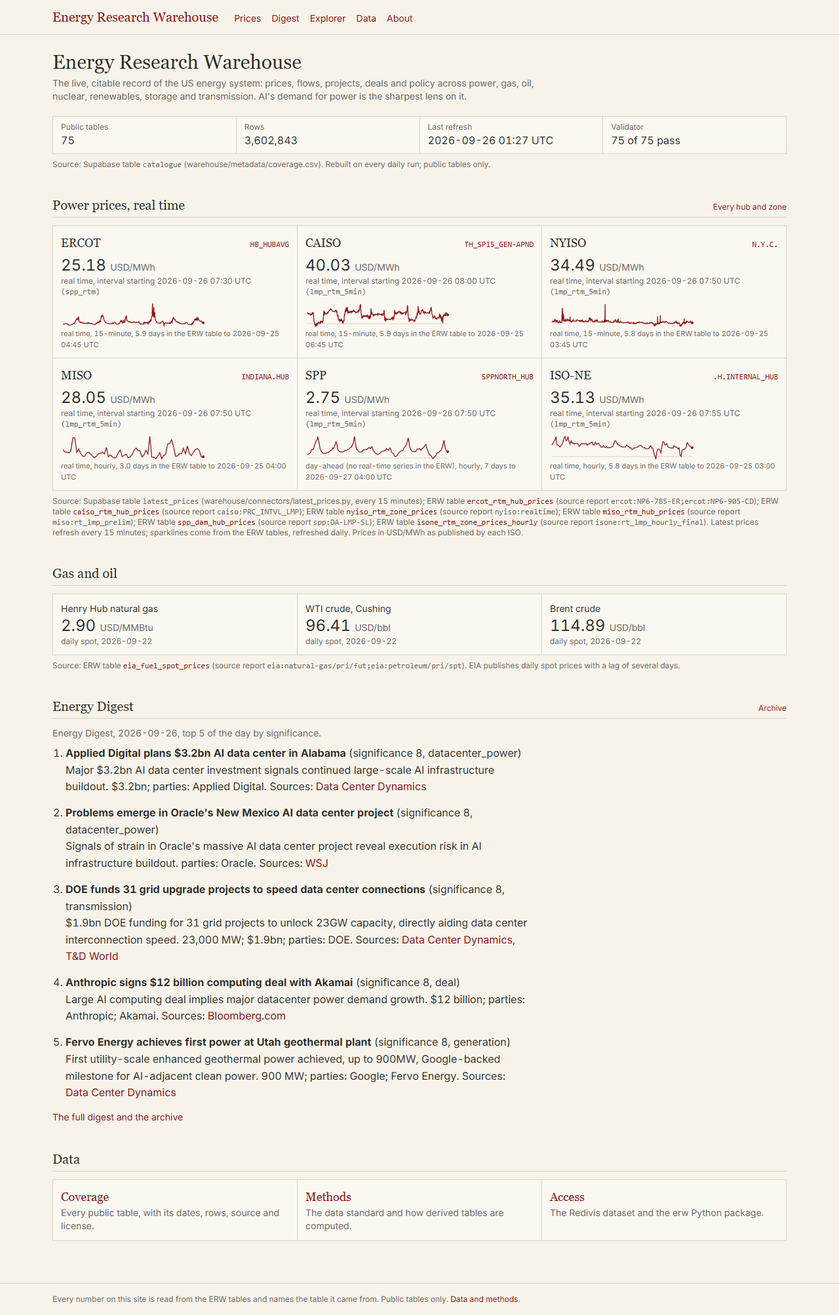
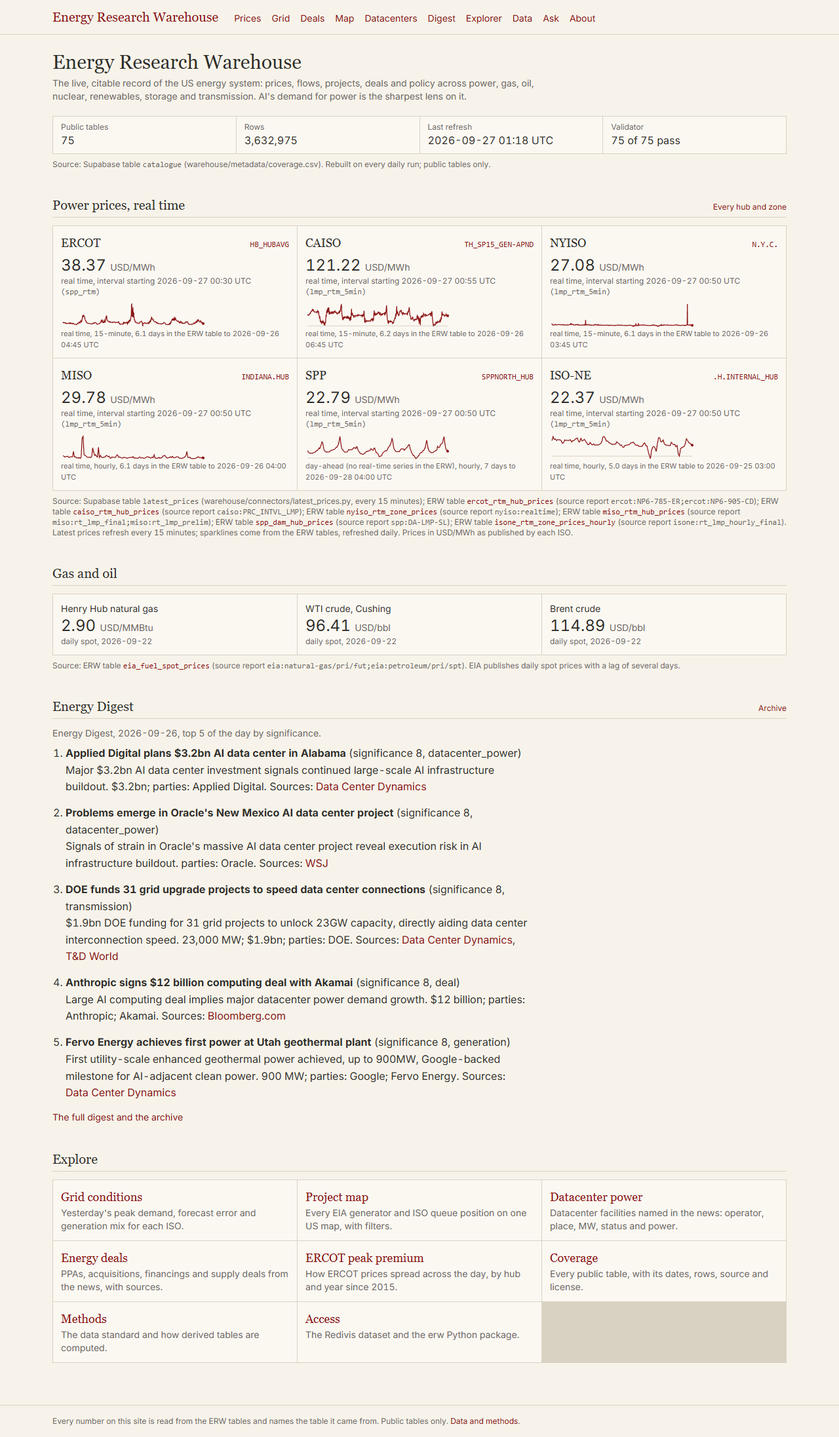
Session 16 Task 5: screenshots, value check for /map and /datacenters, tools 3 and 4, report
- screenshots of /map and /datacenters (no data until the live set is loaded)
  and labeled previews from the local CSVs; home re-shot with the new links
- check-values.mjs reads /map and /datacenters with independent queries;
  catalogue max_last_run now orders nulls last; 229 of 229 values match
- docs/platform-tools.md: tools 3 and 4 (and the session 16 changes to 6, 7)
- package/llms.txt and site/lib/chat/spec.json name the new tables
- STATUS.md regenerated; SESSION_16_REPORT.md

diff --git a/SESSION_16_REPORT.md b/SESSION_16_REPORT.md
@@ -1,0 +1,245 @@
+# Session 16 report
+
+Energy Research Warehouse (ERW), session 16, run 2026-09-27 (UTC). Every task in SESSION_16_PROMPT.md was carried out, with two limits set by this machine's permissions (below). The session pushed four times, each after merging origin/main; GitHub had no daily-run commits to merge, because daily runs 2 and 3 both failed before committing. No key was printed or committed.
+
+**Three things to know first:**
+- **The new tables are not in Supabase yet.** The Supabase load from this machine was refused by Claude Code's permission check (a write to a shared resource), and I did not retry it. So `/map` and `/datacenters` show their "no data" state until a load runs. The layout was checked instead from the local CSVs, on a temporary preview route that was deleted afterwards. Its screenshots are committed as `*-preview-local-csv-*.png`.
+- **The workflow was not triggered.** No GitHub token was available: reading git's stored credential was also refused. Please trigger **daily prices** by hand (Actions, daily prices, Run workflow; the new `queues` input defaults to 1). That run loads `energy_deals`, `datacenter_projects` and, because it pulls the queues, `energy_projects` into Supabase.
+- **The GitHub log was not in the prompt.** The prompt has the placeholder "[paste the last 25 lines of the red step here]". I found the cause another way: the run's failure issue (#2, public) holds the tail of `daily.log`, and the public jobs API gives the step list. The commit step's own output is not in that issue, so the exit 128 cause below is inferred from the code, then reproduced.
+
+## What was built
+
+| Task | Result | Commit |
+|---|---|---|
+| 1 | CI commit step fixed; news_brief fixed; EIA-930 generation per day; extractor rulings with a re-extraction (29 deals became 26) | `95586b8` |
+| 2 | `energy_projects`: 45,488 rows, 43,316 placed | `e7e3748` |
+| 3 | `/map`: canvas points on inline US geometry, filters, click card, legend, table view | `8cdd1d7` |
+| 4 | `datacenter_projects`: 3 facilities; `/datacenters`; datacenters on `/map`; spot check 44 of 48 | `8c9f0bc` |
+| 5 | Screenshots, value check (229 of 229), platform tools 3 and 4, briefing, this report | final commit |
+
+## Task 1: push and stabilize CI
+
+**The push.** origin/main was at `542b4ea` (session 14). Local was 5 commits ahead, with nothing to merge. Session 15 was pushed as it stood (`f5d4053`).
+
+**Exit 128 in the commit step (run 3, `36284122117`).**
+- **Cause:** the step committed, then ran `git pull --rebase` while `warehouse/output/news_index.csv` was still modified. That file is tracked (allowlisted in `.gitignore`) and rewritten every run, but it was missing from the step's `git add` list. Git refuses to rebase with unstaged changes ("cannot pull with rebase: You have unstaged changes"), and exits 128.
+- **Fix, in `daily-prices.yml`:** the step now:
+  1. sets the run's changes aside (`git stash --include-untracked`);
+  2. runs `git pull --rebase origin main`;
+  3. restores the changes, keeping this run's version of any file that conflicts, since it was built from the newer data;
+  4. stages the allowlist, which now includes `news_index.csv` and the datacenter tables;
+  5. commits only if something is staged, then pushes.
+- **Checkout** has full history (`fetch-depth: 0`), so the rebase always has a base.
+- **Tested** in a scratch simulation: a bare remote, a "CI" clone, and a "human" clone that pushed a conflicting `news_stories.csv` and a new `STATUS.md` mid-run. The human's `STATUS.md` was kept, the run's `news_stories.csv` won the conflict, and untracked junk was not committed. With nothing changed, the step exits 0 without committing.
+
+**news_brief failed in CI.**
+- **Cause, from issue #2:** `ERWDataNotFound: No ERW table named 'ercot_peak_premium_annual'`. The digest's "highest real-time price" looped over `erw.filter(market="rtm")`. On the runner that list includes tables coverage carries over but the runner does not have: the derived peak-premium tables and the ERCOT yearly history.
+- **Reproduced** in a fresh clone with four tables: it failed at HEAD and passed after the fix.
+- **Fix:** the loop reads only interval price tables (`<iso>_rtm_(hub|zone)_prices`) and skips any that is absent, with a log line.
+
+**EIA-930 generation per day** (human ruling; data standard decision 24a).
+- The eight generation tables are in `PER_DAY`. Within the days written, a per-fuel series with a missing hour is still dropped for the run, as ruling a says.
+- **Run against the live API:** 2026-09-24 and 2026-09-25 were written for all eight tables. 2026-09-26 had 3 to 6 of 24 hours, so it was not written; each table has a `gap` row in `run_status.csv`.
+- Run 3 had written no generation at all under the old whole-window rule.
+
+**Extractor rulings** (decision 24b).
+- **How:** the model now returns `state_text`, `country_text` and `status_text`. The code keeps each value only if:
+  - its span is in the story;
+  - for a state, the span names the state (name or postal code);
+  - for a country, the span names the country.
+- Status may now be empty, and the prompt maps stated verbs to statuses (raises = closed, secured = signed).
+- **Re-extraction:** `extract.py --reextract` re-ran the 133 stories session 15 checked, starting from nothing. The previous tables are kept in `warehouse/deals/history/`. Cost: USD 0.1939 (9 calls).
+
+**What changed in the re-extraction:**
+
+| | Before | After |
+|---|---|---|
+| Deals | 29 | 26 |
+| State filled | 3 | 0 |
+| Country filled | 18 | 8 |
+| Status filled | 29 | 23 |
+| Status counts | announced 16, signed 9, closed 3, cancelled 1 | signed 10, closed 6, announced 6, empty 3, cancelled 1 |
+| Dollars filled | 13 | 12 |
+
+- **Gone (4):** Palisades and the BWRX-300 MOU, the two non-deals the session 15 spot check flagged. Also a Madouela "other" (confidence 0.3) and an EIG geothermal fund (0.3).
+- **New (1):** Eni, Sapukala block.
+- **The spot check's inference errors are gone:**
+  - ProPetro to Targa lost "TX" and "US" (Permian Basin), and its status is now signed;
+  - Inpex's Ichthys stake lost "Australia";
+  - BP and Devon's Eagle Ford lost "TX";
+  - Nscale is now closed ("raises").
+- **One loss is model variance, not the ruling:** the frontier AI lab equipment deal lost USD 614,000,000 and one of its two stories, because the model did not return them this time.
+- **19 of the 25 deals kept differ in some field; 6 are unchanged.** Besides the ones above:
+  - country removed: WhiteHawk, Vietnam refinery, Hoegh Evi, Shell Gulf assets, Amazon backup generators, Polskie Elektrownie Jadrowe;
+  - status now empty: Genel and Capricorn, Polskie Elektrownie Jadrowe;
+  - Rune is now closed; Amazon is now signed and an offtake;
+  - Anthropic cloud services is now an offtake; the offshore gas project went from project_finance to other;
+  - wording only (asset, technology, capitalization): Golar LNG, Exxon Middle Kura, Mercuria, the CO2 for EOR deal.
+
+**Also:** `load.py --only REGEX` loads chosen live-set tables and leaves the others, and the catalogue's other rows, as Supabase has them. It exists for a machine whose tables are older than CI's. It is untested against Supabase, because the load was refused.
+
+## Task 2: project map data (tool 3)
+
+**`warehouse/derived/energy_projects.py`** is a derived table (decision 23); method in `docs/methods/energy_projects.md`. The standard entities columns come first, then:
+
+| Column | What it holds |
+|---|---|
+| `project_id` | the input row's `entity_id` |
+| `kind` | operating, planned or queue |
+| `technology_group` | EIA's group, or the queue text grouped by `QUEUE_TECH` |
+| `mw` | the source's MW |
+| `state`, `county` | as the source states them |
+| `geo_precision`, `geo_note` | how the row was placed, and why not |
+| `operator_role` | operator (EIA) or developer (queue) |
+| `date`, `date_kind` | operating year, planned operation date or queue date |
+| `technology`, `source_status`, `source_table` | the source's own text, status label and table |
+
+**Rows and placement:**
+
+| Kind | Rows | Placed at | Not placed |
+|---|---|---|---|
+| operating | 28,605 | EIA's coordinates (point) | 0 |
+| planned | 2,316 | EIA's coordinates (point) | 0 |
+| queue | 14,567 | county internal point: 13,395 | 1,172 |
+
+**Why 1,172 queue positions are not placed:** 286 name no state, 214 no county, and the rest name something the gazetteer does not hold: a city, a misspelling or a joined list. There is no fuzzy matching.
+
+**The gazetteer:**
+- **Files:** the U.S. Census Bureau's 2025 county file, downloaded each run into `warehouse/raw/census_gazetteer/<run_id>/` with a manifest, and registered in `sources.csv` as `census:gazetteer_counties` (public).
+- **The point:** the prompt asked for the county centroid. The gazetteer publishes the county's internal point (`INTPTLAT`, `INTPTLONG`), which is always inside the county. The method doc says so.
+- **Connecticut:** the 2025 file replaced the state's counties with planning regions, while ISO-NE still names counties. For names the 2025 file lacks, the 2020 file is used, and `geo_note` names the file.
+- **Matching:** the whole text is tried first, so a hyphenated name like Miami-Dade matches; then each county of a list.
+
+**Checks:** it validates. On the CI runner the script skips with a warning (session 10 ruling 3) unless the queue tables are there, which is on Mondays or on a manual run with `queues=1`.
+
+**Live set.** `energy_projects` repeats rows already in Supabase, which was at 257.6 MB against the 300 MB limit. So a new `select` rule in `live_set.yaml` loads it:
+- without withdrawn queue positions;
+- with only the map's extra columns;
+- which comes to 36,741 rows, estimated at 20 to 30 MB.
+
+The CSV and Redivis keep everything. **Watch the size on the first load:** if it passes `max_mb`, `supabase_load` fails that day and names the size.
+
+**Chat:** sectors `power` for `energy_projects` and a new `datacenters` sector for the tracker, in coverage, the package and the chat tools. The briefing (`package/llms.txt`) and `site/lib/chat/spec.json` now name `energy_projects`, `datacenter_projects` and `energy_deals`.
+
+## Task 3: /map
+
+**Libraries:** `d3-geo`, `topojson-client` and `us-atlas`. The map is inline geometry: no tiles and no key.
+
+**Drawing:**
+- **Projection:** the server projects every point with Albers USA, the same projection us-atlas's albers file is drawn with, and hands the client compact arrays.
+- **Points** are drawn on a canvas, since there are 36,000 of them.
+- **Size and order:** area grows with MW, and the largest points are drawn first.
+- **Color** is the technology group, using the site's eight fuel colors from the same token file. Session 15 validated them on this surface. Hybrid, petroleum, biomass, geothermal, transmission and not-stated share "other", as the dataviz rule forbids a ninth hue.
+- **Shape:** exact points are dots, county points are rings, and datacenters are diamonds.
+
+**Around the map:**
+- **Filters, in one row:** kind, technology, state, status and a MW range, plus a live count of what is shown.
+- **Hover:** a tooltip.
+- **Click:** a card read from Supabase through `/api/entity`. It reads only `energy_projects` and `datacenter_projects`, with the anon key on the server.
+- **Also:** a legend with shape and size keys, and a table view of counts and MW by technology and kind.
+- **Numbers:** every count and MW carries a `data-check` key.
+- **Links:** nav and home.
+
+**A screenshot bug, fixed.** The first capture showed the points squashed into the top quarter of the map. The canvas itself was right: its drawn pixels spanned rows 12 to 505 of 509. The cause was `captureBeyondViewport`, which re-lays the page out mid-capture. `scripts/screenshots.mjs` now sizes the viewport to the page before capturing.
+
+## Task 4: datacenter power tracker v0 (tool 4)
+
+**`warehouse/datacenters/extract.py`** follows the deal extractor's pattern. It loads the deal extractor by path for its checks, since both files are named `extract.py`, and the county gazetteer code from `energy_projects.py`.
+
+**What each field needs to be kept:**
+
+| Field | Kept only if |
+|---|---|
+| MW | its span parses to the same value |
+| State, status | their spans are in the story, as in the deals |
+| County, city | the location span is in the story and contains the name |
+| Planned year | its span is in the story and contains the year |
+| Operator, developer, site name, power source, utility | the name appears in the story |
+
+**The rest of the design:**
+- **Deduplication** is by site, against a reference list of the facilities already extracted.
+- **Placement:** at the stated county's internal point (`county`), else the stated city's (Census 2025 places file, unique names only: `place`), else not placed.
+- **Status:** the standard `status` maps announced and permitted to planned, and cancelled to withdrawn. The extractor's own word is kept in `project_status`.
+- **`ai_power`** is true on every row: the table is the AI-power subset.
+
+**Tables:**
+- `datacenter_projects`: entities, public.
+- `datacenter_projects_evidence`: events, internal.
+- Both are in `run_daily.sh`, the git allowlist and the workflow's commit list. The public table is in the live set.
+
+**The backfill.** News was brought current first: 33 stories, scored for USD 0.1177, and 1 new deal (USD 0.0133). The extraction then covered 28 datacenter_power stories in 25 clusters, over 3 calls, for USD 0.0299, and found 3 facilities:
+
+| Facility | What the stories state |
+|---|---|
+| Oracle | New Mexico; 4 stories |
+| Arevia Power | Ada County; permitted; gas |
+| Applied Digital, Delta Forge 2 | Alabama; 2028 |
+
+None of the three is placed, because none states both a state and a county or city. The data is thin because the ERW has scored news only since 2026-09-23.
+
+**The site:**
+- **`/datacenters`** has a summary strip (facilities, MW stated, MW by state and top operators by MW, each saying "no data" and why when no facility states MW), filters (state, status, operator, minimum MW), and per-row story links.
+- **`/map`** draws datacenters as its fourth kind.
+
+**Spot check** (`warehouse/datacenters/eval/spot_check_s16.csv`): 10 extractions, judged field by field against the titles and summaries. The extractor was not changed afterwards.
+- **The 10:** the 3 facilities, each judged on 14 fields, and 7 clusters where the extractor found no facility, judged on that decision alone.
+- **Result:** 44 of 48 judgments correct (0.92).
+
+| Field | Correct | Where wrong |
+|---|---|---|
+| is_facility | 10/10 | |
+| status | 1/3 | Arevia "permitted" (an application was filed); Delta Forge 2 empty ("reveals ... will be built" was stated, but the model gave no span, so the check emptied it) |
+| state | 2/3 | Arevia: "Ada County, Idaho" is stated, the model returned no state |
+| operator | 2/3 | Arevia Power is the developer; no operator is named |
+| every other field | all correct | |
+
+## Task 5
+
+**Screenshots** in `site/screenshots/`:
+
+| File | What it shows |
+|---|---|
+| `map-desktop.png`, `map-mobile.png` | the live pages in their no-data state |
+| `datacenters-desktop.png`, `datacenters-mobile.png` | the live pages in their no-data state |
+| `map-preview-local-csv-*` | the layout, with real rows read from the local CSV |
+| `datacenters-preview-local-csv-*` | the layout, with real rows read from the local CSV |
+| `home-*` | re-shot with the new links |
+
+**Value check** (`scripts/check-values.mjs`):
+- **Extended to `/map` and `/datacenters`:** independent queries for the counts by kind, precision and technology, and the MW sums, with MW sums compared as the page rounds them.
+- **Also fixed:** Postgres puts nulls first in a descending order, so the check read a null `last_run`. It now orders with nulls last.
+- **Result: 229 of 229 values match Supabase.** None of them are from `/map` or `/datacenters`, which have no rows to check until the load. After the load, run `npm run check` again.
+
+**Docs:** `docs/platform-tools.md` has tools 3 and 4, with the session 16 changes to 6 and 7; `docs/datastandard.md` has decision 24; `STATUS.md` is regenerated.
+
+## Decisions
+
+1. **Queue tables are not restored from Redivis in CI.** A restored snapshot keeps only a one-line header, so the validator and provenance would suffer. Instead the map table is built on the days the queues are pulled, and a manual run pulls them by default.
+2. **The county internal point stands in for the centroid,** and Connecticut uses the 2020 file (Task 2).
+3. **No fuzzy matching or city lookup for queue positions.** An unplaced position is honest; a guessed county is not.
+4. **The Supabase copy of `energy_projects` is trimmed** by a `select` rule, instead of dropping the generator and queue tables that `/ask` reads.
+5. **`ai_power` is true on every datacenter row,** and the datacenter status keeps its own word in `project_status`, because the entities vocabulary has no "announced" or "permitted".
+6. **`first_story_date` was renamed `first_story_at`,** because the validator requires `*_date` columns to be dates. The 3-row file was renamed in place, rather than re-extracted.
+7. **The committed preview screenshots are labeled as local-CSV previews,** because the live pages cannot show data yet.
+
+## Errors hit
+
+1. **Permission refusals:** reading git's stored credential (for the API trigger) and the Supabase load. Neither was retried.
+2. **Two heredoc patches failed** on quoting; they were rewritten as script files.
+3. **`read_series` refused entities tables;** the map builder reads tables by counting the header lines instead.
+4. **The 2025 gazetteer is pipe-delimited,** not tab-delimited as older years are.
+5. **Squashed canvas in the screenshots** (Task 3).
+6. **The validator blocked `first_story_date`** (decision 6).
+7. **A stale local server held port 3000;** the process was stopped.
+
+## Open questions for the human
+
+1. **Trigger the daily workflow by hand** (queues=1), and check its commit step on GitHub.
+   - Its Supabase load puts `energy_projects`, `datacenter_projects` and the re-extracted `energy_deals` live.
+   - Watch the database size on that load against `max_mb` 300.
+   - Alternatively, run `python warehouse/supabase/load.py --only '^energy_projects$' --only '^datacenter_projects$' --only '^energy_deals$'` yourself.
+2. **Check the site after the load:** run `npm run build && npm start`, then `npm run check`, to verify the numbers on `/map` and `/datacenters`.
+3. **The datacenter extractor's status reading is weak** (1 of 3 correct). Should the status vocabulary have an "applied" step, and should the model be required to give the status span? Today a missing span empties a correct status.
+4. **Standing failures from run 3:**
+   - SPP real-time has now failed three runs in a row (a missing SPP interval file for 2026-09-23), and the workflow's streak step would open an issue for it;
+   - CARB's auction PDF answered HTTP 202.

diff --git a/docs/platform-tools.md b/docs/platform-tools.md
@@ -8,11 +8,11 @@ Status: **yes** = the tables the tool needs exist and refresh daily; **partial**
 |---|---|---|---|
 | 1 | Energy Digest: daily AI-curated news brief across the whole energy industry | events `news_stories` (scored); series price and fuel tables for "Numbers today" | **yes** (data and page): `news_stories` (44 feeds, scored and clustered), `news_index` (public), the daily digest in `docs/digest/`, and the price and fuel tables; the site renders the digest and its archive (`/digest`, top 5 on `/`). Built; the site is not yet deployed. The daily workflow (`.github/workflows/daily-prices.yml`, 14:00 UTC) runs on GitHub in its session 13 form since 2026-09-26, and needs the repository secrets listed in SESSION_13_REPORT.md ("Correction after the push") |
 | 2 | Real-time price board: power hubs, gas, oil, nuclear fuel, carbon, lithium, energy equities | series: `*_dam_*`, `*_rtm_*`, `eia_*` fuel, product, retail and crude tables, `fred_*`, `carb_*`, `rggi_*`, `pjm_rpm_capacity_prices`, `portwatch_chokepoint_transits` | **partial**: the site's home board and `/prices` show every public ISO hub and zone (six ISOs, real time and day-ahead), Henry Hub, WTI and Brent, from Supabase; `latest_prices` refreshes the newest real-time interval every 15 minutes (`.github/workflows/latest-prices.yml`, every 15 minutes on GitHub since 2026-09-26; needs `SUPABASE_URL` and `SUPABASE_SERVICE_KEY` as repository secrets). The tables also hold products, retail fuels and electricity, LNG, capacity, carbon, IMF metals and chokepoint transits (the last four internal). Missing: PJM energy prices, SPP real-time series, live futures (paid), lithium, equities. Not yet deployed |
-| 3 | Energy project map | entities: plants, projects, interconnection queue positions (EIA-860, ISO queues), with lat/lon | **partial** (session 8): `eia860m_operating_generators`, `eia860m_planned_generators`, `eia860m_retired_generators` with lat/lon; `<iso>_interconnection_queue` for ERCOT, CAISO, NYISO, MISO, SPP and ISO-NE (county and POI, no lat/lon from the ISOs). Missing: PJM queue (needs a key), geocoded queue positions |
-| 4 | Datacenter power tracker | entities: datacenters; events: datacenter power deals; series: `eia930_*_demand` | **partial**: hourly demand by ISO; large-load context from the EIA-860M inventories and ISO queues (session 8); no datacenter entities or deal events |
+| 3 | Energy project map | entities: plants, projects, interconnection queue positions (EIA-860, ISO queues), with lat/lon | **partial (session 16)**: `energy_projects` (derived, public, method `docs/methods/energy_projects.md`): 45,488 rows, every EIA-860M operating (28,605) and planned (2,316) generator at EIA's coordinates and every queue position of ERCOT, CAISO, NYISO, MISO, SPP and ISO-NE (14,567), placed at its county's internal point from the Census Bureau's county gazetteer; 1,172 queue positions name no county the gazetteer holds and are not placed. The site's `/map`: points sized by MW and colored by technology group, county points drawn as rings, filters for kind, technology, state, status and MW, a click card, a legend and a table view; datacenters (tool 4) are the fourth kind. The Supabase copy leaves out withdrawn queue positions and keeps the map's columns (`select` in `live_set.yaml`). Not yet in Supabase: this machine could not load it, and CI builds it only on days the queues are pulled (Mondays, or a manual run). Missing: PJM queue (needs a key), exact queue coordinates, retired generators on the map |
+| 4 | Datacenter power tracker | entities: datacenters; events: datacenter power deals; series: `eia930_*_demand` | **partial (v0, session 16)**: `datacenter_projects` (entities, public: the model's checked fields and story links) and `datacenter_projects_evidence` (internal), extracted by `warehouse/datacenters/extract.py` from the scored `datacenter_power` stories, every field kept only as the story states it; deduplicated by site; placed at the stated county or city. In the daily run after the deals. 3 facilities from the first 28 stories; a 10-extraction spot check: 44 of 48 judgments correct (status is the weak field). The site's `/datacenters` (summary strip, filters, story links) and the fourth kind on `/map`; datacenter power deals are in `energy_deals` (tool 6, ai_power). Missing: facilities from filings, utility large-load reports and press releases; history before 2026-09-23; hourly demand is in `eia930_*_demand` but not joined to facilities |
 | 5 | Signature data explorers (live thesis charts, starting with ERCOT peak premium) | series: `ercot_dam_hub_prices`, `ercot_rtm_hub_prices`, `ercot_*_hub_prices_<year>`, `eia930_erco_generation`, `eia930_erco_demand` | **yes** for the first explorer: the ERCOT peak premium, with its data (`ercot_peak_premium_annual`, `_monthly`, from every 15-minute interval since 2015, method in `docs/methods/`) and its page (`/explorer/ercot-peak-premium`: hub and year selectors, box summaries by time-of-day block, yearly and monthly charts). Built, not yet deployed. No second explorer yet |
-| 6 | Energy deal tracker: PPAs, offtakes, M&A, project finance, AI-power deals as a tagged subset | events: deals (parties, mw, price, status); `news_stories` as the discovery feed | **partial (v0, session 15)**: `energy_deals` (public: the model's structured fields and story links) and `energy_deals_evidence` (internal: the evidence sentences), extracted by `warehouse/deals/extract.py` from scored stories, every number checked against the story's own text; in the daily run after scoring; 29 deals from the first four days of news; the site's `/deals` (filters, expandable rows, month summary). A 10-deal spot check: 0.95 of field values correct. Missing: deals from filings and press releases, history before the news began (2026-09-23), a human-marked evaluation (`warehouse/deals/eval/eval_sample.csv`) |
-| 7 | Grid stress and real-time conditions | series: `*_rtm_*`, `eia930_*_demand` (with forecast), `eia930_*_generation`; reserves, outages; entities: generator inventory and retirements | **partial (session 15)**: the site's `/grid`, from the EIA-930 demand, forecast and generation tables in the Supabase live set: yesterday's peak demand and hour, day-ahead forecast error, the generation mix by fuel, 7 days of demand, for the Lower 48 and seven ISOs, with the reason from run_status.csv when a day is missing; real-time prices on `/prices`. Missing: reserves, outages, ancillary prices, interchange |
+| 6 | Energy deal tracker: PPAs, offtakes, M&A, project finance, AI-power deals as a tagged subset | events: deals (parties, mw, price, status); `news_stories` as the discovery feed | **partial (v0, session 15)**: `energy_deals` (public: the model's structured fields and story links) and `energy_deals_evidence` (internal: the evidence sentences), extracted by `warehouse/deals/extract.py` from scored stories, every number checked against the story's own text; in the daily run after scoring; 29 deals from the first four days of news, 26 after the session 16 re-extraction under the ruling that state, country and status are never inferred (27 with the next day's stories); the site's `/deals` (filters, expandable rows, month summary). A 10-deal spot check: 0.95 of field values correct. Missing: deals from filings and press releases, history before the news began (2026-09-23), a human-marked evaluation (`warehouse/deals/eval/eval_sample.csv`) |
+| 7 | Grid stress and real-time conditions | series: `*_rtm_*`, `eia930_*_demand` (with forecast), `eia930_*_generation`; reserves, outages; entities: generator inventory and retirements | **partial (session 15)**: the site's `/grid`, from the EIA-930 demand, forecast and generation tables in the Supabase live set: yesterday's peak demand and hour, day-ahead forecast error, the generation mix by fuel, 7 days of demand, for the Lower 48 and seven ISOs, with the reason from run_status.csv when a day is missing; since session 16 the generation tables are complete per UTC day, so a day EIA has published is written even when the next is not; real-time prices on `/prices`. Missing: reserves, outages, ancillary prices, interchange |
 | 8 | Regional power-price heatmap | series: `*_dam_*`, `*_rtm_*` with geo per node | **partial**: hubs and zones at six ISOs; no PJM, no nodal detail, geo per node not refined |
 | 9 | Flagship newsletter | events `news_stories` (scored), digests in `docs/digest/`; all series | **partial**: the digest (tool 1) exists; a newsletter format and distribution are not built |
 | 10 | Energy-intelligence company database | entities: companies, counterparties, operators; events linking them | **no** |

diff --git a/STATUS.md b/STATUS.md
@@ -1,24 +1,24 @@
 # ERW status
 
-Generated 2026-09-27 00:12 UTC by `warehouse/metadata/build_status.py`, which the daily run regenerates after coverage; the daily workflow commits it. Every number below is read from `warehouse/metadata/coverage.csv`, `warehouse/metadata/run_status.csv` or Supabase.
+Generated 2026-09-27 02:38 UTC by `warehouse/metadata/build_status.py`, which the daily run regenerates after coverage; the daily workflow commits it. Every number below is read from `warehouse/metadata/coverage.csv`, `warehouse/metadata/run_status.csv` or Supabase.
 
 ## Tables
 
 | | Tables | Rows |
 |---|---|---|
-| All | 81 | 3,751,828 |
-| Public | 75 | 3,629,472 |
-| Internal (never shown publicly) | 6 | 122,356 |
+| All | 86 | 3,800,041 |
+| Public | 78 | 3,677,439 |
+| Internal (never shown publicly) | 8 | 122,602 |
 
-Newest table refresh: 2026-09-26 23:32:06 UTC. Validator: 81 of 81 tables pass. Per-table detail: [`docs/coverage.md`](docs/coverage.md).
+Newest table refresh: 2026-09-27 02:23:00 UTC. Validator: 86 of 86 tables pass. Per-table detail: [`docs/coverage.md`](docs/coverage.md).
 
 ## Last runs
 
 | Workflow | Last run (UTC) | Outcome |
 |---|---|---|
 | daily prices, on GitHub | none recorded | |
-| daily run, local | 2026-09-26 23:32 | 101 ok, 1 failed, 17 gap (table results of that day) |
-| latest prices, every 15 minutes | 2026-09-26 23:59 | 39 hubs and zones in `latest_prices` (newest retrieval) |
+| daily run, local | 2026-09-27 02:23 | 121 ok, 8 failed, 8 gap (table results of that day) |
+| latest prices, every 15 minutes | 2026-09-27 00:54 | 39 hubs and zones in `latest_prices` (newest retrieval) |
 
 A table that failed is not written that day; nothing partial is. The reasons are in `warehouse/metadata/run_status.csv`.
 
@@ -30,14 +30,22 @@ A table that failed is not written that day; nothing partial is. The reasons are
 
 ## Open gaps
 
-Days a per-day connector could not write complete, re-checked against the table with the connector's own completeness rule. Recorded gap days: 11; filled since: 0; open: 11.
+Days a per-day connector could not write complete, re-checked against the table with the connector's own completeness rule. Recorded gap days: 19; filled since: 0; open: 19.
 
 | Table | Day | State | First recorded reason |
 |---|---|---|---|
+| `eia930_ciso_generation` | 2026-09-26 | still incomplete in the table | net_generation_mw: 6 of 24 hours (18 missing, 0 published as null; first missing ['2026-09-26T06:00:00Z', '2026-09-26T07:00:00Z', '2026-09-2 |
 | `eia930_erco_demand` | 2026-09-04 | still incomplete in the table | demand_forecast_mw: 5 of 24 hours (19 missing, 0 published as null; first missing ['2026-09-04T05:00:00Z', '2026-09-04T06:00:00Z', '2026-09- |
 | `eia930_erco_demand` | 2026-09-05 | still incomplete in the table | demand_forecast_mw: 19 of 24 hours (5 missing, 0 published as null; first missing ['2026-09-05T00:00:00Z', '2026-09-05T01:00:00Z', '2026-09- |
+| `eia930_erco_generation` | 2026-09-26 | still incomplete in the table | net_generation_mw: 4 of 24 hours (20 missing, 0 published as null; first missing ['2026-09-26T04:00:00Z', '2026-09-26T05:00:00Z', '2026-09-2 |
+| `eia930_isne_generation` | 2026-09-26 | still incomplete in the table | net_generation_mw: 3 of 24 hours (21 missing, 0 published as null; first missing ['2026-09-26T03:00:00Z', '2026-09-26T04:00:00Z', '2026-09-2 |
+| `eia930_miso_generation` | 2026-09-26 | still incomplete in the table | net_generation_mw: 4 of 24 hours (20 missing, 0 published as null; first missing ['2026-09-26T04:00:00Z', '2026-09-26T05:00:00Z', '2026-09-2 |
 | `eia930_nyis_demand` | 2026-09-04 | still incomplete in the table | demand_forecast_mw: 4 of 24 hours (20 missing, 0 published as null; first missing ['2026-09-04T04:00:00Z', '2026-09-04T05:00:00Z', '2026-09- |
 | `eia930_nyis_demand` | 2026-09-05 | still incomplete in the table | demand_forecast_mw: 20 of 24 hours (4 missing, 0 published as null; first missing ['2026-09-05T00:00:00Z', '2026-09-05T01:00:00Z', '2026-09- |
+| `eia930_nyis_generation` | 2026-09-26 | still incomplete in the table | net_generation_mw: 3 of 24 hours (21 missing, 0 published as null; first missing ['2026-09-26T03:00:00Z', '2026-09-26T04:00:00Z', '2026-09-2 |
+| `eia930_pjm_generation` | 2026-09-26 | still incomplete in the table | net_generation_mw: 3 of 24 hours (21 missing, 0 published as null; first missing ['2026-09-26T03:00:00Z', '2026-09-26T04:00:00Z', '2026-09-2 |
+| `eia930_swpp_generation` | 2026-09-26 | still incomplete in the table | net_generation_mw: 4 of 24 hours (20 missing, 0 published as null; first missing ['2026-09-26T04:00:00Z', '2026-09-26T05:00:00Z', '2026-09-2 |
+| `eia930_us48_generation` | 2026-09-26 | still incomplete in the table | net_generation_mw: 3 of 24 hours (21 missing, 0 published as null; first missing ['2026-09-26T03:00:00Z', '2026-09-26T04:00:00Z', '2026-09-2 |
 | `isone_rtm_zone_prices` | 2026-09-02 | still incomplete in the table | day incomplete: .H.INTERNAL_HUB: 95 rows, expected 96, missing 1 (first ['2026-09-03T03:45:00Z']), extra 0; .Z.CONNECTICUT: 95 rows, expecte |
 | `isone_rtm_zone_prices` | 2026-09-11 | still incomplete in the table | day incomplete: .H.INTERNAL_HUB: 95 rows, expected 96, missing 1 (first ['2026-09-12T03:45:00Z']), extra 0; .Z.CONNECTICUT: 95 rows, expecte |
 | `isone_rtm_zone_prices` | 2026-09-12 | still incomplete in the table | day incomplete: .H.INTERNAL_HUB: 95 rows, expected 96, missing 1 (first ['2026-09-12T04:15:00Z']), extra 0; .Z.CONNECTICUT: 95 rows, expecte |
